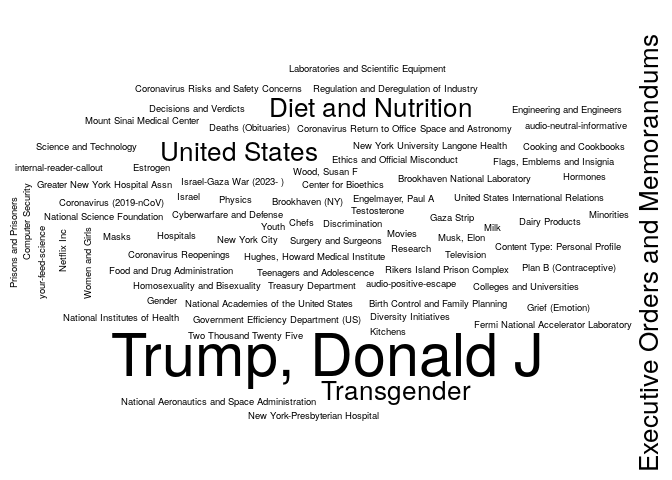
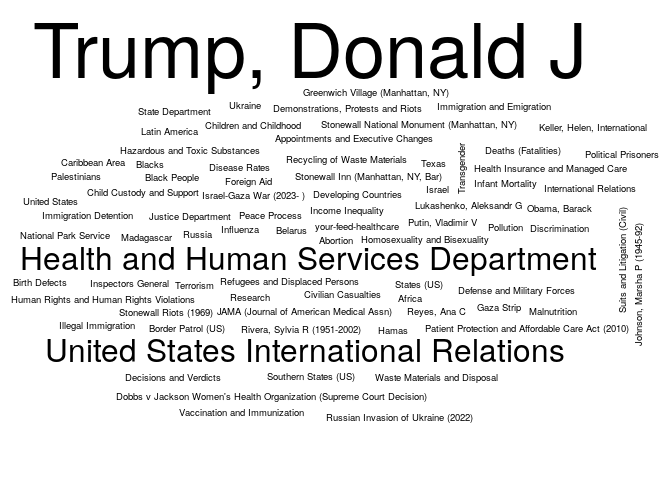
Updating the NYT report

Changed region(s): [[0.0, 0.0312, 1.0, 1.0], [0.8125, 0.0312, 0.875, 0.1875]]

diff --git a/03-nytimes/README.md b/03-nytimes/README.md
@@ -5,7 +5,7 @@ The following is an example of how to use the [NYTimes
 API](https://developer.nytimes.com/) to get a list of articles related
 to a particular term. Here we are searching articles that include the
 term `"health"`, and that were published up to seven days ago since
-2025-02-10.
+2025-02-17.
 
 ``` r
 # Preparing a function to use the GET method with the NYTimes API
@@ -85,23 +85,23 @@ knitr::kable(tab, row.names = FALSE)
 
 | Keyword                               | \# Articles |
 |:--------------------------------------|------------:|
-| United States Politics and Government |          25 |
 | Trump, Donald J                       |          20 |
-| Diet and Nutrition                    |          10 |
-| Executive Orders and Memorandums      |          10 |
-| Transgender                           |          10 |
-| United States                         |          10 |
-| audio-neutral-informative             |           5 |
-| audio-positive-escape                 |           5 |
-| Birth Control and Family Planning     |           5 |
-| Brookhaven (NY)                       |           5 |
-| Brookhaven National Laboratory        |           5 |
-| Center for Bioethics                  |           5 |
-| Chefs                                 |           5 |
-| Colleges and Universities             |           5 |
-| Computer Security                     |           5 |
-| Content Type: Personal Profile        |           5 |
-| Cooking and Cookbooks                 |           5 |
-| Coronavirus (2019-nCoV)               |           5 |
-| Coronavirus Reopenings                |           5 |
-| Coronavirus Return to Office          |           5 |
+| United States Politics and Government |          20 |
+| Health and Human Services Department  |          10 |
+| United States International Relations |          10 |
+| Abortion                              |           5 |
+| Africa                                |           5 |
+| Appointments and Executive Changes    |           5 |
+| Belarus                               |           5 |
+| Birth Defects                         |           5 |
+| Black People                          |           5 |
+| Blacks                                |           5 |
+| Border Patrol (US)                    |           5 |
+| Caribbean Area                        |           5 |
+| Child Custody and Support             |           5 |
+| Children and Childhood                |           5 |
+| Civilian Casualties                   |           5 |
+| Deaths (Fatalities)                   |           5 |
+| Decisions and Verdicts                |           5 |
+| Defense and Military Forces           |           5 |
+| Demonstrations, Protests and Riots    |           5 |
